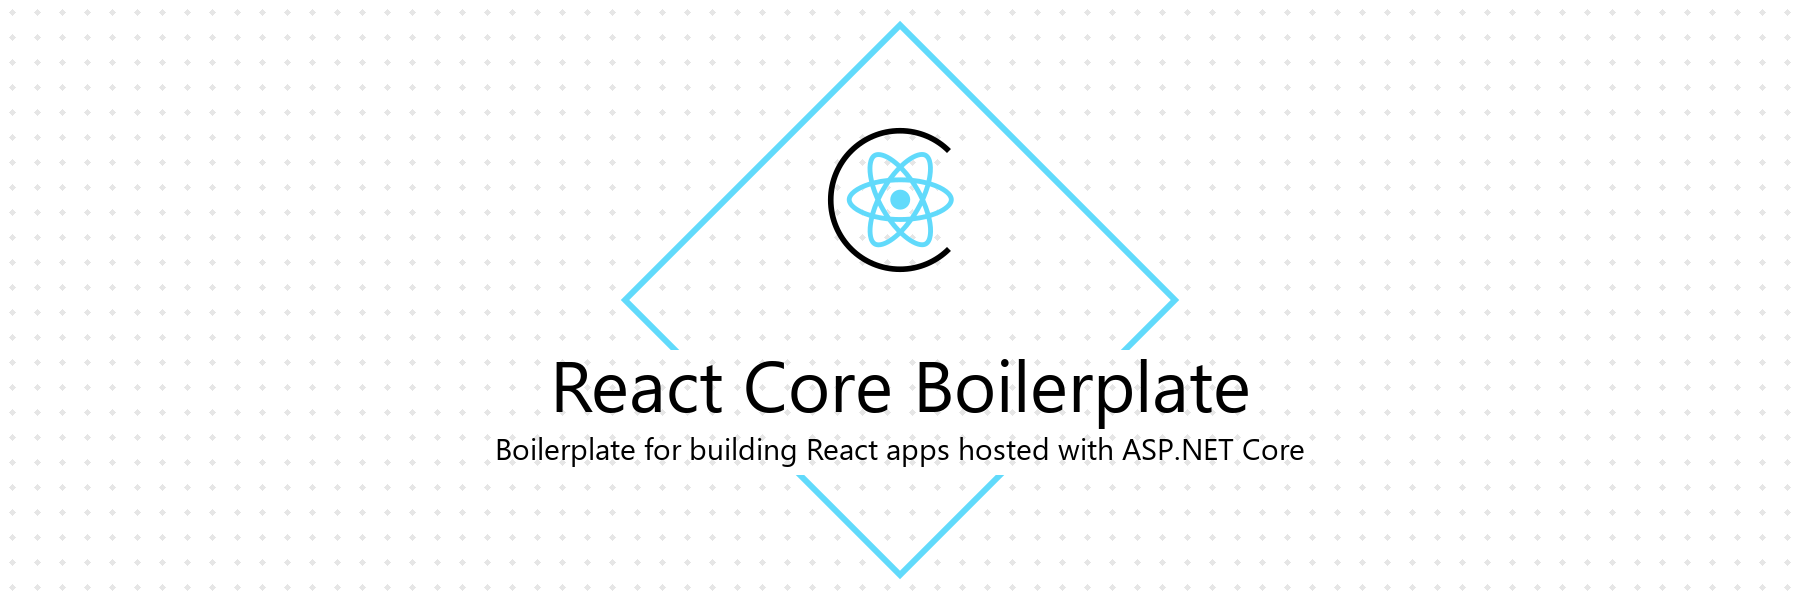
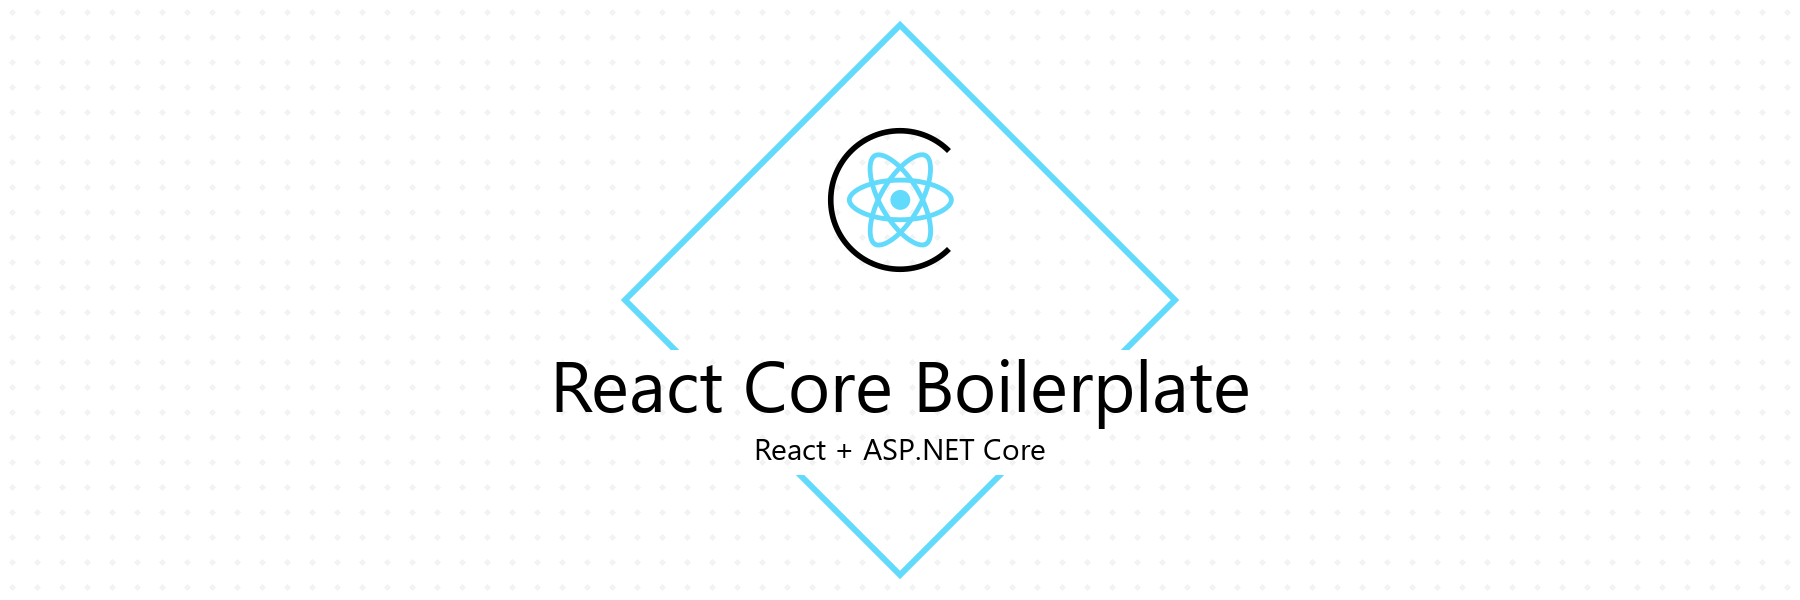
Fix/project title (#6)
* Updated project title

* Updated README

Changed region(s): [[0.28, 0.72, 0.7156, 0.78]]

diff --git a/README.md b/README.md
@@ -39,7 +39,7 @@ npm run start
 | Command         | Description                                                                                                              |
 | --------------- | ------------------------------------------------------------------------------------------------------------------------ |
 | `npm run start` | Start the [webpack-dev-server](https://github.com/webpack/webpack-dev-server) on `http://localhost:9000`  |
-| `nom run build` | Build with [webpack](https://webpack.js.org/); output to `wwwroot` directory |
+| `nom run build` | Build with [webpack](https://webpack.js.org/) and output to `wwwroot` directory |
 
 ### MSBuild
 
